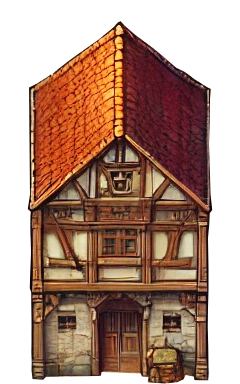
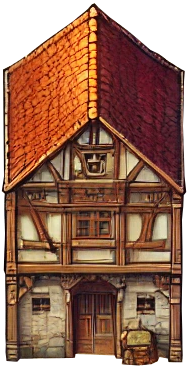
added buildings to scene4

diff --git a/src/screens/WorldScene.jsx b/src/screens/WorldScene.jsx
@@ -92,6 +92,8 @@ const OBJECT_IMAGE_MAP = {
   'fox.png': require('../assets/images/fox.png'),
   'hare.png': require('../assets/images/hare.png'),
   'wolf.png': require('../assets/images/wolf.png'),
+  'Building 05.png': require('../assets/images/Building 05.png'),
+  'Building 06.png': require('../assets/images/Building 06.png'),
 };
 
 const storyMap = {
@@ -709,10 +711,21 @@ const dialogueCharacters = useMemo(
                   top: collider.y,
                   width: collider.width,
                   height: collider.height,
-                  backgroundColor: worldThemeStyle.collider,
+                  backgroundColor: collider.image ? 'transparent' : worldThemeStyle.collider,
+                  justifyContent: collider.image ? 'flex-end' : 'center',
+                  alignItems: collider.image ? 'center' : 'stretch',
+                  overflow: collider.image ? 'hidden' : 'visible',
                 },
               ]}
-            />
+            >
+              {collider.image ? (
+                <Image
+                  source={OBJECT_IMAGE_MAP[collider.image]}
+                  style={{ width: '100%', height: '100%' }}
+                  resizeMode="contain"
+                />
+              ) : null}
+            </View>
           ))}
 
         {(worldData.objects || []).map((item) => (
@@ -1161,7 +1174,7 @@ const styles = StyleSheet.create({
   },
   colliderVisual: {
     position: 'absolute',
-    borderRadius: 999,
+    //borderRadius: 999,
     zIndex: 8,
   },
   objectVisual: {

diff --git a/src/systems/CollisionSystem.js b/src/systems/CollisionSystem.js
@@ -21,9 +21,9 @@ export const applyCollision = ({
 
   const playerRect = {
     x: bounded.x,
-    y: bounded.y,
+    y: bounded.y + playerSize * 0.75,
     width: playerSize,
-    height: playerSize,
+    height: playerSize * 0.25,
   };
 
   const hitsCollider = colliders.some((collider) =>
